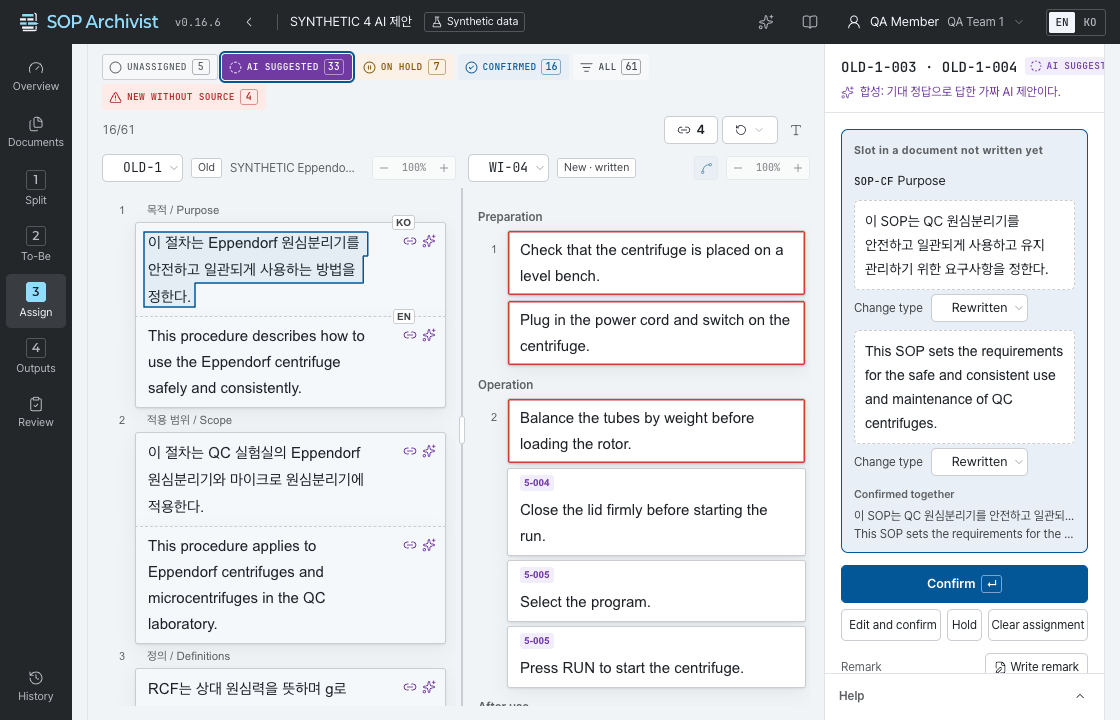
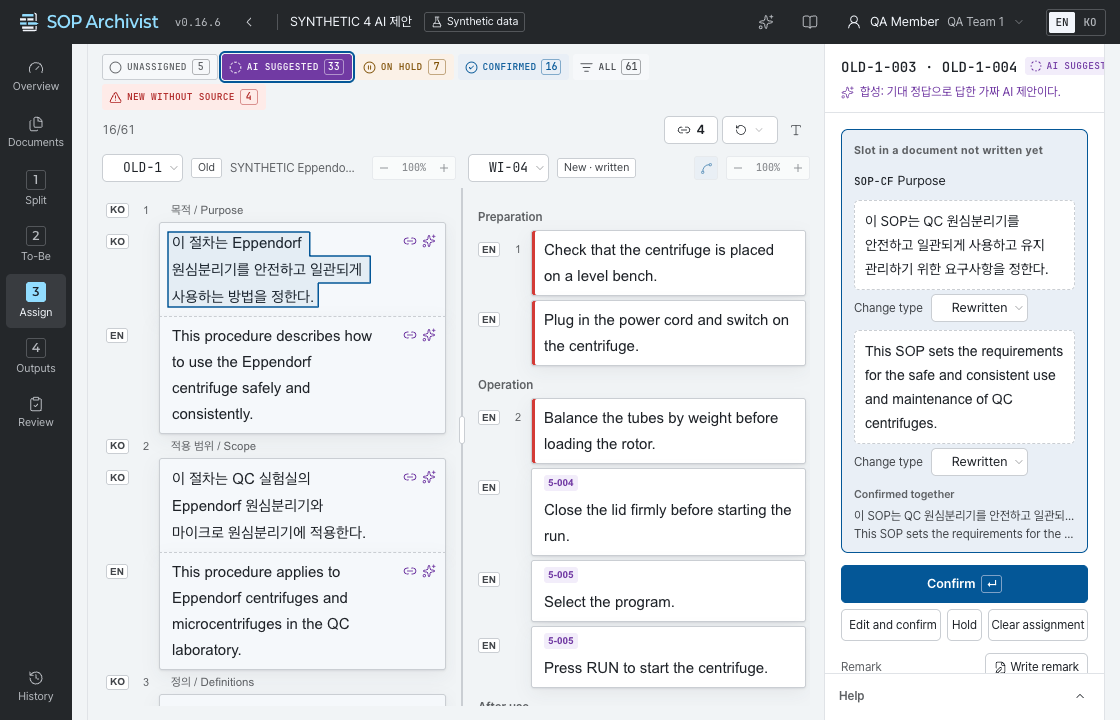
fix(assign): KO/EN in front of every paragraph, red bar for New without source, link lines meet the token — 문단 앞 KO/EN 늘 보임·출처 없음은 왼쪽 빨간 막대·연결선은 언어 표시에
Dropping the coloured language leads left Assign without a language cue,
turned "New without source" into a full red border that read as an error,
and left link lines ending in the empty lead in front of the New box.
Assign now reuses the Split KO/EN token (one LangToken/.lang-token for
both screens) in a fixed language column at the far left of the lead, so
each paragraph reads KO/EN at a glance and the column x is the same at any
section depth; lines end on that token's left edge (box edge for neutral
sentences). Split keeps its hover/selected tab. Unsourced New sentences get
a thin red bar on the box's left edge again.

Claude-Session: https://claude.ai/code/session_01YNNLvBNgNFiUZ73gyxco3h

diff --git a/frontend/src/components/paper/paper.tsx b/frontend/src/components/paper/paper.tsx
@@ -9,7 +9,8 @@ import { ChevronsDownUp, CircleCheck, Ellipsis, FoldVertical, FolderCheck, Image
 import { Fragment, useEffect, useEffectEvent, useLayoutEffect, useMemo, useRef, useState, type KeyboardEvent, type MouseEvent, type PointerEvent as ReactPointerEvent, type ReactNode } from "react";
 
 import { FigureImage } from "@/components/paper/figure-image";
-import { StripLead, STRIP_LEAD_EXTRA } from "@/components/paper/strip-lead";
+import { LangToken } from "@/components/paper/lang-token";
+import { StripLead, STRIP_LEAD_EXTRA, STRIP_LEAD_LANG } from "@/components/paper/strip-lead";
 import { UnitStatusChip } from "@/components/status";
 import { Collapse } from "@/components/ui/motion";
 import { useDelegatedTip } from "@/components/ui/delegated-tip";
@@ -117,6 +118,8 @@ interface PaperProps {
     renderNote?: (unitIds: number[]) => ReactNode;
     /** Assign - 조각 오른쪽 칸(연결 배지). 비면 폭을 차지하지 않는다 */
     renderPills?: (unitId: number) => ReactNode;
+    /** Assign - 앞머리 맨 왼쪽에 언어 표시(KO/EN)를 늘 둔다. 조각 위 테두리의 올릴 때 탭(Split)은 그리지 않는다 */
+    langLead?: boolean;
     /** Assign - 필터 접기. matchIds는 필터를 걸 때의 목록(스냅숏), 없으면 전부 그린다 */
     fold?: { matchIds: ReadonlySet<number>; open: FoldOpen; onOpenChange: (next: FoldOpen) => void };
   };
@@ -312,6 +315,9 @@ export function Paper({
     }
     return heads;
   }, [sections, cardTops]);
+  const langLead = strips?.langLead ?? false;
+  // 앞머리에서 번호 칸 밖의 폭 - 조각까지 틈, Assign은 언어 칸도
+  const leadExtra = STRIP_LEAD_EXTRA + (langLead ? STRIP_LEAD_LANG : 0);
   // 줄마다 번호 칸 폭 - 번호 없는 줄은 직전 줄 폭, 짝 카드는 첫 줄 폭(부분마다 문서 순서로)
   const tabWidths = useMemo(() => {
     const rows = sections.flatMap((section) =>
@@ -551,20 +557,8 @@ export function Paper({
   /** 조각 언어 칩(KO/EN) - 늘 그려 두고 조각을 올리거나 고를 때만 CSS가 드러낸다(조각마다 호버 상태를 두지 않는다). 짝이면 구성원 모두.
    *  자리는 조각 위 테두리 오른쪽 끝에 걸친 작은 탭 - 글·끝 아이콘과 겹치지 않고 조각 높이를 바꾸지 않는다. 언어가 없는 단위(neutral)는 없다 */
   function renderLang(unit: ViewUnit | undefined): ReactNode {
-    if (!unit || unit.lang === "neutral") return null;
-    const label = t(`paper.lang.${unit.lang}`);
-    return (
-      <span
-        className="strip-lang"
-        role="img"
-        aria-label={label}
-        data-tip={label}
-        tabIndex={unit.id === selectedId ? 0 : -1}
-        data-testid={`${testId}-lang-${unit.id}`}
-      >
-        {unit.lang.toUpperCase()}
-      </span>
-    );
+    if (!unit || langLead) return null;
+    return <LangToken lang={unit.lang} className="strip-lang" tabIndex={unit.id === selectedId ? 0 : -1} testId={`${testId}-lang-${unit.id}`} />;
   }
 
   /** 두 줄 사이의 묶기 - 같은 언어면 합치기, 한글·영어면 짝(아이콘으로 구별). 못 묶는 자리는 꺼 두고 까닭을 툴팁으로 */
@@ -618,6 +612,7 @@ export function Paper({
         tip={describeTab(unit)}
         testId={testId}
         id={unit.id}
+        lang={langLead ? unit.lang : undefined}
       />
     );
   }
@@ -739,7 +734,7 @@ export function Paper({
     return (
       <div key={row.key} className="strip-row" data-peek={isPeek ? "" : undefined}>
         {unit && renderLead(unit, section, width, bracket)}
-        {!unit && <span className="strip-lead-gap" style={{ width: width + STRIP_LEAD_EXTRA }} />}
+        {!unit && <span className="strip-lead-gap" style={{ width: width + leadExtra }} />}
         <div
           className="strip"
           data-kind={row.type}
@@ -788,7 +783,7 @@ export function Paper({
         data-pair={cardTops.has(readRowUnitId(row) ?? -1) ? "" : undefined}
         data-near-selected={selectedBlock.has(readRowUnitId(prev) ?? -1) || selectedBlock.has(readRowUnitId(row) ?? -1) ? "" : undefined}
         // 합치기 단추를 글 시작 x에 - 위아래 앞머리 중 넓은 쪽 뒤라 어느 앞머리에도 걸치지 않는다
-        style={{ "--gap-tab": `${Math.max(readTabWidth(prev), readTabWidth(row)) + STRIP_LEAD_EXTRA}px` }}
+        style={{ "--gap-tab": `${Math.max(readTabWidth(prev), readTabWidth(row)) + leadExtra}px` }}
         data-testid={`${testId}-gap-${row.key}`}
       >
         {renderMerge(prev, row)}
@@ -850,7 +845,7 @@ export function Paper({
     const cellOf = new Map(cells.map((cell) => [cell.item.key, cell]));
     const leadWidth = (key: string): number => {
       const first = cellOf.get(key)?.rows[0];
-      return (first ? readTabWidth(first) : 0) + STRIP_LEAD_EXTRA;
+      return (first ? readTabWidth(first) : 0) + leadExtra;
     };
     const { open, onOpenChange } = fold;
     let prevRow: PaperRow | null = null;
@@ -884,9 +879,9 @@ export function Paper({
             onClick={() => onOpenChange({ runs: open.runs, peeks: new Set([...open.peeks, entry.key]) })}
           >
             {unit ? (
-              <StripLead width={width} number={isHead && first ? getSectionPill(readRowSection(first)) : null} dim={!isHead} tip={describeTab(unit)} testId={`${testId}-fold`} id={unit.id} />
+              <StripLead width={width} number={isHead && first ? getSectionPill(readRowSection(first)) : null} dim={!isHead} tip={describeTab(unit)} testId={`${testId}-fold`} id={unit.id} lang={langLead ? unit.lang : undefined} />
             ) : (
-              <span className="strip-lead-gap" style={{ width: width + STRIP_LEAD_EXTRA }} />
+              <span className="strip-lead-gap" style={{ width: width + leadExtra }} />
             )}
             <span className="fold-line-text">{readLineText(rows)}</span>
           </button>

diff --git a/frontend/src/styles/components.css b/frontend/src/styles/components.css
@@ -1177,6 +1177,9 @@
   .strip-lead { flex: none; align-self: stretch; display: flex; padding-right: 5px; box-sizing: border-box; }
   .strip-lead-num { flex: 1 1 auto; min-width: 0; height: 33px; padding: 6px 5px 0 0; overflow: hidden; text-align: right; text-overflow: ellipsis; white-space: nowrap; color: var(--ink-3); font: 500 11px / 27px var(--font-mono); box-sizing: border-box; }
   .strip-lead-gap { flex: none; }
+  /* Assign 앞머리 맨 왼쪽 언어 칸(StripLead STRIP_LEAD_LANG) - 표시를 첫 글줄 가운데(조각 위 여백 6 + 27px 줄의 가운데 - 표시 높이 15의 반 = 12px)에. 필터 한 줄 판(22px)은 가운데 */
+  .strip-lead-lang { flex: none; display: flex; align-items: flex-start; width: 24px; padding-top: 12px; box-sizing: border-box; }
+  .fold-line .strip-lead-lang { padding-top: 3.5px; }
   /* 카드 강조 테두리 - 조각 바깥 2px. 짝 카드(.strip-card, 줄 수와 상관없이)는 한 줄이라도 강조면 모든 줄에 두르되 맞닿는 쪽은 열어 한 테두리로 읽힌다(줄마다 그림자 고리를 두면 사이에 선이 생긴다) */
   .strip-card { display: contents; }
   .pg[data-strips] .strip-lead + .strip:is([data-partner], [data-link-hover])::after,
@@ -1211,7 +1214,9 @@
      Assign은 윗줄 오른쪽 아래 모서리의 연결 배지(.lbadge, right 4px·폭 20px+)를 비켜 30px 안쪽에 둔다.
      늘 그려 두고 줄을 올리거나 고를 때만 보인다 - 이웃한 짝 카드는 한 줄만 올리거나 골라도 카드 전체, 떨어진 짝은 고른 짝(data-partner)·올린 짝(data-mate-hover, Paper가 단다).
      z-index 2 - 고른 줄에서 위 틈(z-index 1)의 선보다 앞에 */
-  .strip-lang { position: absolute; top: -8px; right: 9px; z-index: 2; display: inline-grid; place-items: center; height: 15px; padding: 0 3px; border: 1px solid var(--line-2); border-radius: 3px; background: var(--surface); color: var(--ink-2); font: 600 10px / 1 var(--font-mono); visibility: hidden; opacity: 0; transition: opacity var(--dur-fast), visibility 0s var(--dur-fast); }
+  /* 언어 표시 한 벌(components/paper/lang-token.tsx) - Split 탭(.strip-lang)과 Assign 앞머리(.strip-lead-lang)가 같은 모양 */
+  .lang-token { display: inline-grid; place-items: center; height: 15px; padding: 0 3px; border: 1px solid var(--line-2); border-radius: 3px; background: var(--surface); color: var(--ink-2); font: 600 10px / 1 var(--font-mono); }
+  .strip-lang { position: absolute; top: -8px; right: 9px; z-index: 2; visibility: hidden; opacity: 0; transition: opacity var(--dur-fast), visibility 0s var(--dur-fast); }
   .assign-pane .strip-lang { right: 30px; }
   .strip-lang:focus-visible { outline: 2px solid var(--accent); outline-offset: 1px; }
   .strip-row:hover > .strip > .strip-lang,
@@ -1426,7 +1431,8 @@
   .new-srcs { position: relative; z-index: 1; display: flex; flex-wrap: wrap; gap: 4px 10px; margin-bottom: 6px; }
   .pg[data-strips] .new-line[data-state="candidate"] { outline: 1.5px dashed var(--accent); outline-offset: -1.5px; }
   .pg[data-strips] .new-line[data-state="picked"] { background: var(--accent-tint); box-shadow: var(--shadow-1), inset 0 0 0 1.5px var(--accent); }
-  .pg[data-strips] .new-line[data-state="unsourced"] { box-shadow: var(--shadow-1), inset 0 0 0 1.5px var(--danger-fill); }
+  /* 출처 없음 - 상자 왼쪽 끝 가는 막대(테두리 전체를 칠하면 오류 상자처럼 읽힌다) */
+  .pg[data-strips] .new-line[data-state="unsourced"] { box-shadow: var(--shadow-1), inset 3px 0 0 var(--danger-fill); }
   .pg[data-strips] .new-line[data-state="focus"] { background: var(--danger-tint); box-shadow: var(--shadow-1), inset 0 0 0 1.5px var(--danger-ink); }
   .new-src { display: inline-block; padding: 0 4px; border-radius: var(--r-1); font: 600 10px / 16px var(--font-mono); white-space: nowrap; background: var(--st-ok-tint); color: var(--st-ok-ink); }
   button.new-src { cursor: pointer; box-shadow: inset 0 0 0 1px transparent; }
@@ -1457,7 +1463,7 @@
   .legend-box[data-state="flash"] { outline: 2px solid var(--accent); outline-offset: -2px; }
   .legend-line { width: 30px; height: 0; border-top: 1.75px solid var(--accent); }
   .legend-line.is-dashed { border-top-style: dashed; }
-  .legend-box[data-state="unsourced"] { background: var(--danger-tint); box-shadow: inset 0 0 0 1.5px var(--danger-ink); }
+  .legend-box[data-state="unsourced"] { background: var(--paper); box-shadow: inset 3px 0 0 var(--danger-fill), inset 0 0 0 1px var(--line-2); }
 
   .dest-acc-item { border-top: 1px solid var(--line); }
   .dest-acc-head { display: flex; width: 100%; align-items: center; gap: 8px; padding: 10px var(--pad); font-size: var(--fs-cap); font-weight: 700; color: var(--ink-2); text-align: left; cursor: pointer; }

diff --git a/frontend/src/components/paper/strip-lead.tsx b/frontend/src/components/paper/strip-lead.tsx
@@ -1,12 +1,17 @@
 // 용지 줄 앞머리 - 절 번호 칸. 번호 칸 폭은 절 깊이별(들여쓰기로 읽힌다). 짝 카드는 첫 줄만 번호를 보이고 둘째 줄부터는 첫 줄 폭을 따른다.
+// Assign은 앞머리 맨 왼쪽에 언어 칸(KO/EN 표시, 늘 보임)을 더 둔다 - 칸 x가 깊이와 상관없이 같아 한 줄로 훑어 읽히고, New 칸의 연결선이 이 표시에 닿는다.
 // 보류는 색만으로 알리지 않는다 - 번호 칸에 툴팁(data-tip, 감싼 용지의 useDelegatedTip이 띄운다), 같은 글을 sr-only로.
+import { LangToken } from "@/components/paper/lang-token";
+import type { UnitLang } from "@/lib/api-sop";
 import type { PairBracket } from "@/lib/strip-pill-model";
 
 /** 번호 칸과 조각 사이 틈 5px - 앞머리 폭 = 번호 칸 폭 + 이 값 */
 export const STRIP_LEAD_EXTRA = 5;
+/** Assign 앞머리의 언어 칸 폭(px) - 표시(약 20px) + 번호까지 틈 4px. 줄이면 깊은 번호와 붙고, 늘리면 좁은 창에서 글 폭을 그만큼 잃는다 */
+export const STRIP_LEAD_LANG = 24;
 
 export interface StripLeadProps {
-  /** 번호 칸 폭(px) - 앞머리 전체는 여기에 STRIP_LEAD_EXTRA를 더한다 */
+  /** 번호 칸 폭(px) - 앞머리 전체는 여기에 STRIP_LEAD_EXTRA(언어 칸이 있으면 STRIP_LEAD_LANG도)를 더한다 */
   width: number;
   /** 절의 첫 블록에만 번호, 나머지는 null(빈 칸) */
   number: string | null;
@@ -14,20 +19,28 @@ export interface StripLeadProps {
   dim: boolean;
   /** 보류 설명 - 비면 툴팁·sr-only 글을 두지 않는다 */
   tip: string;
-  /** testid 앞말 - 앞머리 `{testId}-lead-{id}`, 번호 `{testId}-num-{id}` */
+  /** testid 앞말 - 앞머리 `{testId}-lead-{id}`, 번호 `{testId}-num-{id}`, 언어 `{testId}-lead-lang-{id}` */
   testId: string;
   id: number | string;
+  /** 주면 언어 칸을 둔다(Assign) - neutral은 빈 칸으로 자리만 지킨다 */
+  lang?: UnitLang;
   onClick?: () => void;
 }
 
-export function StripLead({ width, number, bracket, dim, tip, testId, id, onClick }: StripLeadProps) {
+export function StripLead({ width, number, bracket, dim, tip, testId, id, lang, onClick }: StripLeadProps) {
   const tipAttr = tip === "" ? undefined : tip;
   // 좁은 창에서 번호 칸이 말줄임되면 전체 번호를 볼 길이 툴팁뿐이다(글 앞 번호도 숨겼으므로)
   const shownNumber = !dim && number ? `§ ${number}` : null;
   const numTip = [shownNumber, tipAttr].filter(Boolean).join(" · ") || undefined;
+  const fullWidth = width + STRIP_LEAD_EXTRA + (lang === undefined ? 0 : STRIP_LEAD_LANG);
   return (
-    <span className="strip-lead" style={{ width: width + STRIP_LEAD_EXTRA }} data-bracket={bracket} data-dim={dim ? "" : undefined} data-testid={`${testId}-lead-${id}`} onClick={onClick}>
+    <span className="strip-lead" style={{ width: fullWidth }} data-bracket={bracket} data-dim={dim ? "" : undefined} data-testid={`${testId}-lead-${id}`} onClick={onClick}>
       {tipAttr && <span className="sr-only">{tipAttr}</span>}
+      {lang !== undefined && (
+        <span className="strip-lead-lang">
+          <LangToken lang={lang} testId={`${testId}-lead-lang-${id}`} />
+        </span>
+      )}
       <span className="strip-lead-num" data-tip={numTip} data-testid={number !== null ? `${testId}-num-${id}` : undefined}>
         {!dim && number}
       </span>

diff --git a/frontend/src/components/assign/link-lines.tsx b/frontend/src/components/assign/link-lines.tsx
@@ -1,4 +1,4 @@
-// Assign 두 문서 사이 이음 - 마우스를 올린 조각의 맞은편을 강조하고, 양쪽 끝이 다 보이는 이음만 옅은 선으로 그린다(Old 조각 오른쪽 바깥 배지 높이 → New 문단 상자 왼쪽 바깥 출처 칩 높이, 길은 link-route-model).
+// Assign 두 문서 사이 이음 - 마우스를 올린 조각의 맞은편을 강조하고, 양쪽 끝이 다 보이는 이음만 옅은 선으로 그린다(Old 조각 오른쪽 테두리 배지 높이 → New 줄 앞머리의 KO/EN 표시 왼쪽, 길은 link-route-model).
 // 강조 표시는 React 상태가 아니라 DOM 속성(data-link-hover)으로 단다 - Old 원문 조각이 수천 개일 때 올릴 때마다 용지 전체를 다시 그리지 않게.
 // 선은 스크롤·크기 변경·확대·세로선 끌기마다 다시 재되 한 프레임에 한 번으로 묶는다.
 "use client";
@@ -138,10 +138,13 @@ export function LinkLines({ pairs, focusUnits, focusTargets, visible }: LinkLine
       const oldRect = oldEl.getBoundingClientRect();
       const badgeRect = badge?.getBoundingClientRect();
       const start = { x: oldRect.right, y: badgeRect ? badgeRect.top + badgeRect.height / 2 : readAnchorY(oldRect) };
-      // 끝 - New 줄(탭 포함) 왼쪽 끝, 출처 칩 높이. 칩이 없으면(아직 출처가 아닌 후보) 첫 줄 높이
+      // 끝 - New 줄 앞머리 맨 왼쪽의 언어 표시(KO/EN) 왼쪽 가운데. 앞머리는 줄 왼쪽 끝에서 시작해 표시의 x가 깊이와 상관없이 같으니 선이 한 줄로 모인다.
+      // 언어 표시가 없는 중립 문장은 상자 왼쪽 테두리, 출처 칩 높이(칩이 없으면 첫 줄 높이)
+      const tokenRect = rowEl.querySelector(".strip-lead-lang > .lang-token")?.getBoundingClientRect();
       const chipRect = findSourceChip(newEl, pair.unitId)?.getBoundingClientRect();
-      const rowRect = rowEl.getBoundingClientRect();
-      const end = { x: rowRect.left, y: chipRect ? chipRect.top + chipRect.height / 2 : readAnchorY(rowRect) };
+      const end = tokenRect
+        ? { x: tokenRect.left, y: tokenRect.top + tokenRect.height / 2 }
+        : { x: newEl.getBoundingClientRect().left, y: chipRect ? chipRect.top + chipRect.height / 2 : readAnchorY(newEl.getBoundingClientRect()) };
       // 양쪽 끝이 다 보일 때만 - 한쪽이 스크롤 밖이면 선이 문서 머리나 화면 밖으로 뻗는다
       if (start.y < oldFrame.top || start.y > oldFrame.bottom || end.y < newFrame.top || end.y > newFrame.bottom) continue;
       const shift = (point: { x: number; y: number }) => ({ x: point.x - base.left, y: point.y - base.top });

diff --git a/frontend/src/components/assign/new-pane.tsx b/frontend/src/components/assign/new-pane.tsx
@@ -1,4 +1,4 @@
-// Assign 오른쪽 - 이미 쓴 New 문서의 원문. Old와 같은 종이 조각: 왼쪽 밖 앞머리(절 번호 칸, 폭 = 절 깊이라 들여쓴 것처럼 읽힌다), 본문 위 줄에 출처 칩(연결선이 칩 왼쪽으로 들어온다). 점선 = 후보, 채움 = 고른 문장, 칩 = 붙은 Old 출처(누르면 Old의 그 조각으로), 위험색 = 출처 없음.
+// Assign 오른쪽 - 이미 쓴 New 문서의 원문. Old와 같은 종이 조각: 왼쪽 밖 앞머리(맨 왼쪽 KO/EN 표시 + 절 번호 칸, 폭 = 절 깊이라 들여쓴 것처럼 읽힌다), 본문 위 줄에 출처 칩(연결선이 칩 왼쪽으로 들어온다). 점선 = 후보, 채움 = 고른 문장, 칩 = 붙은 Old 출처(누르면 Old의 그 조각으로), 왼쪽 끝 위험색 막대 = 출처 없음.
 // 칩 오른쪽 갈매기는 그 Old 조각이 왼쪽 칸 화면 위·아래 밖에 있다는 표시 - 스크롤마다 바뀌어 LinkLines가 data-dir로 단다(Old 배지와 같은 방식).
 // 표·그림은 이번 화면에서 잇지 않아 회색 상자로만 보인다(설계 §2).
 "use client";
@@ -184,6 +184,7 @@ export function NewPane(props: NewPaneProps) {
                       tip=""
                       testId="assign-new"
                       id={row.target_id}
+                      lang={row.lang}
                     />
                     <div className="strip new-line" data-bracket={bracket} data-lang={row.lang} data-state={readState(row, props)} data-target={row.target_id} data-testid={`assign-new-${row.target_id}`}>
                       {(row.source_unit_ids.length > 0 || row.change_type === "new") && renderSources(row)}

diff --git a/frontend/src/components/paper/lang-token.tsx b/frontend/src/components/paper/lang-token.tsx
@@ -1,0 +1,23 @@
+// KO/EN 언어 표시 한 벌 - Split 조각 위 테두리의 탭(올리거나 고를 때)과 Assign 조각 앞머리(늘)가 같은 모양(.lang-token)을 쓴다.
+// 언어가 없는 단위(neutral)는 그리지 않는다. 툴팁은 감싼 영역의 useDelegatedTip이 data-tip으로 띄운다.
+import type { UnitLang } from "@/lib/api-sop";
+import { useI18n } from "@/lib/i18n";
+
+interface LangTokenProps {
+  lang: UnitLang;
+  /** 자리 클래스 - Split 탭은 "strip-lang" */
+  className?: string;
+  testId?: string;
+  tabIndex?: number;
+}
+
+export function LangToken({ lang, className, testId, tabIndex }: LangTokenProps) {
+  const { t } = useI18n();
+  if (lang === "neutral") return null;
+  const label = t(`paper.lang.${lang}`);
+  return (
+    <span className={className ? `lang-token ${className}` : "lang-token"} role="img" aria-label={label} data-tip={label} tabIndex={tabIndex} data-testid={testId}>
+      {lang.toUpperCase()}
+    </span>
+  );
+}

diff --git a/frontend/src/components/assign/old-pane.tsx b/frontend/src/components/assign/old-pane.tsx
@@ -114,7 +114,7 @@ export function OldPane(props: OldPaneProps) {
             renderAtCut={props.cut ? props.renderAtCut : undefined}
             figureSource={props.figureSource}
             contour
-            strips={{ isChecked: IS_CHECKED, hideChecked: true, statusOf: props.statusOf, renderNote: props.renderNote, renderPills: props.renderPills, fold: props.fold }}
+            strips={{ isChecked: IS_CHECKED, hideChecked: true, langLead: true, statusOf: props.statusOf, renderNote: props.renderNote, renderPills: props.renderPills, fold: props.fold }}
             testId="assign-paper"
           />
         ) : (
